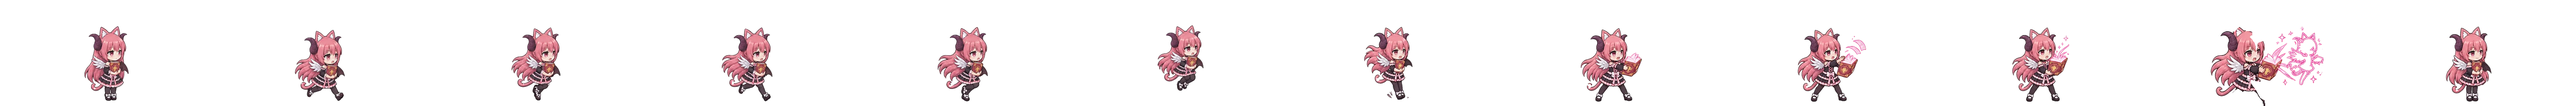
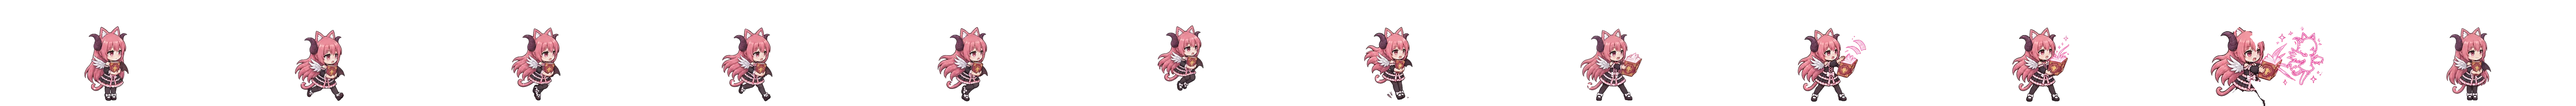
Vanity, part 2b: Seaside Swimsuit (a striped sailor swim dress) drawn whole; arm6 effect frame redrawn; all four outfits open, quest outfits reachable

diff --git a/app/src/main/java/com/coral/calculator/RunVanity.java b/app/src/main/java/com/coral/calculator/RunVanity.java
@@ -69,7 +69,7 @@ final class RunVanity {
     static final String[] NAMES = {"Pajama Set", "Gothic Dress", "Knight's Tabard", "Bunny Girl", "Maid Dress", "Sloppy\u2606Stage", "Seaside Swimsuit"};
     static final String[] DOES = {"Soft lavender with stars, for resting", "Black and violet lace, a red stone at the throat", "Blue and white, a gold edge, one pauldron",
             "The classic bunny suit: black satin, tights, a collar, cuffs and a bow tie", "A short black dress, a frilled apron, white stockings with ribbon garters", "The idol stage dress from her song: ribbons, frills and a layered skirt",
-            "A striped aqua bikini with a frill, a wrap skirt and sandals"};
+            "A striped sailor swim dress with a frilled hem, a red ribbon and sandals"};
     static final int[] PRICES = {400, 700, 0, 1500, 1200, 0, 0};
     static final int[] TREATS = {3, 5, 0, 8, 6, 0, 0};
     static final int[] QUEST = {-1, -1, 2, -1, -1, 0, 1};
@@ -79,7 +79,7 @@ final class RunVanity {
             new Style(0xFF2B3A55, 0xFF5C7CB0, 0xFFEAF0FA, 0xFFE8C65A, PLAIN, false, true, true, 0xFFE8C65A),
             new Style("bunny"), new Style("maid"), new Style("idol"), new Style("swim1")};
     /** Which outfits can be had now: those whose pictures are all there. */
-    static final boolean[] READY = {true, true, true, true, true, true, false};
+    static final boolean[] READY = {true, true, true, true, true, true, true};
     static int count() { return NAMES.length; }
     static boolean ready(int outfit) { return outfit >= 0 && outfit < count() && READY[outfit]; }
 

diff --git a/tools/make_vanity_outfit.py b/tools/make_vanity_outfit.py
@@ -34,7 +34,7 @@ DESIGNS = {
     "bunny": ("the bunny girl suit", "a strapless glossy black satin bodysuit shaped like a ballet leotard, sheer black tights, a white detached collar with a red bow tie, white wrist cuffs and black high heels"),
     "maid": ("the maid dress", "a short black dress with puffed short sleeves, a white frilled apron with a bow, a white ruffled collar with a small pink ribbon, white frilled thigh-high stockings with black ribbon garters and black strap shoes"),
     "idol": ("the Sloppy Stage idol outfit", "a black off-shoulder frilly stage dress with detached puffed sleeves, a pink ribbon corset lacing and a white bow at the waist, a layered black and pink ruffled skirt, black tights and black shoes with white bows"),
-    "swim1": ("the seaside swimsuit", "a white and aqua striped bikini with a frilled bandeau top and a small ribbon, frilled side-tie bottoms, a thin aqua wrap skirt tied at the hip and white strap sandals"),
+    "swim1": ("the seaside swimsuit", "a sporty one-piece swimsuit with a white sailor-style collar, aqua and white horizontal stripes, a small frilled skirt hem, short sleeves, a tiny red ribbon at the chest and white strap sandals"),
 }
 CANVAS = (1536, 1024)
 CLEAR = (" The background must be fully transparent (a PNG with an alpha channel): no backdrop colour, no checkerboard, no ground, no shadows, no text, no borders, "
